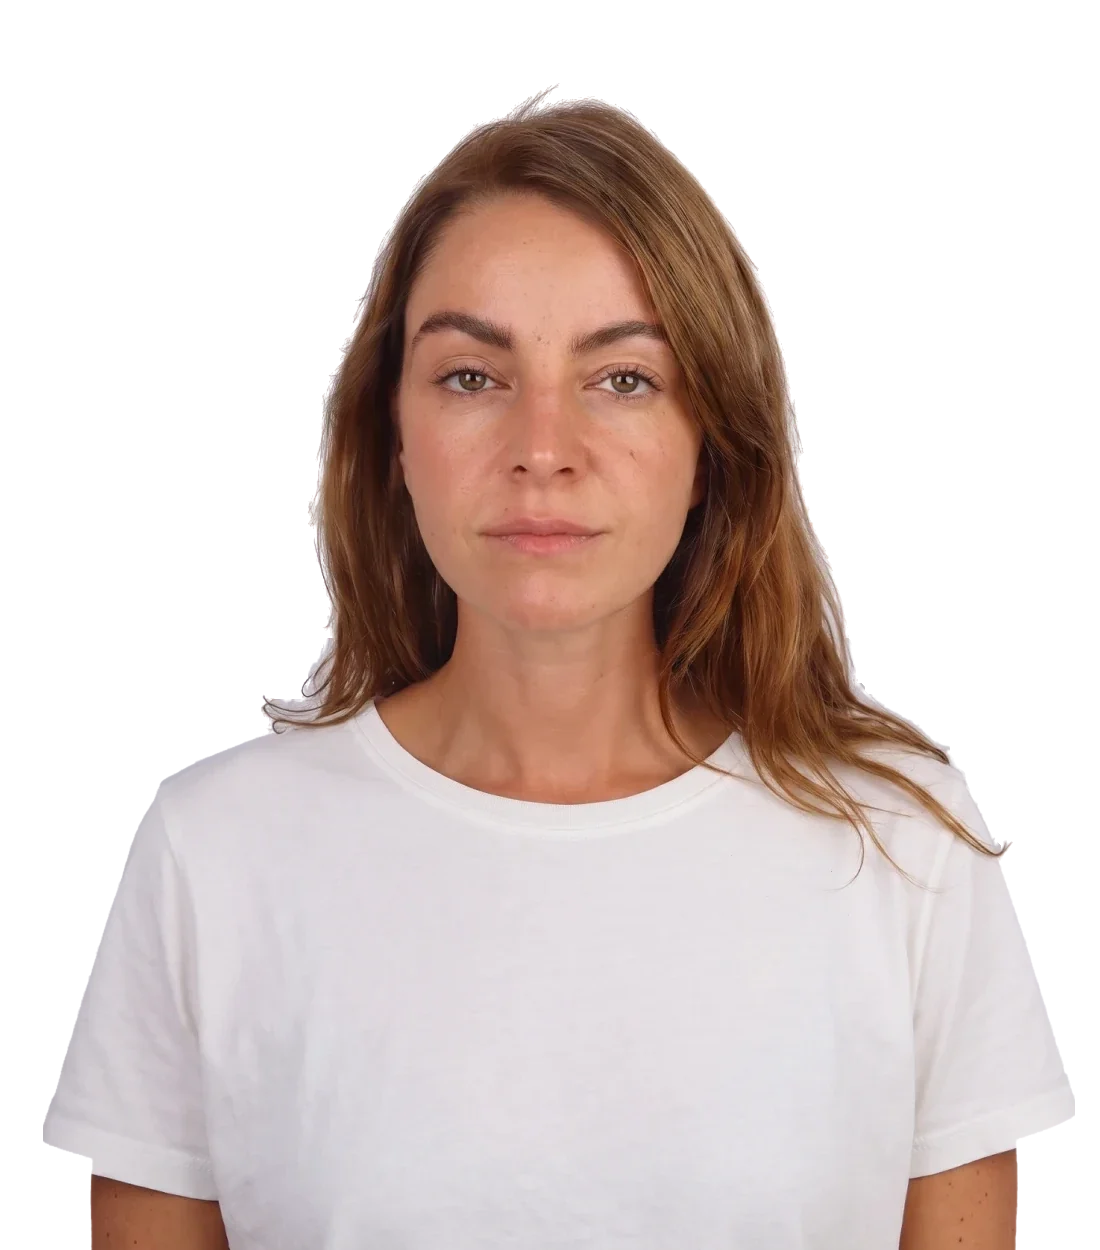
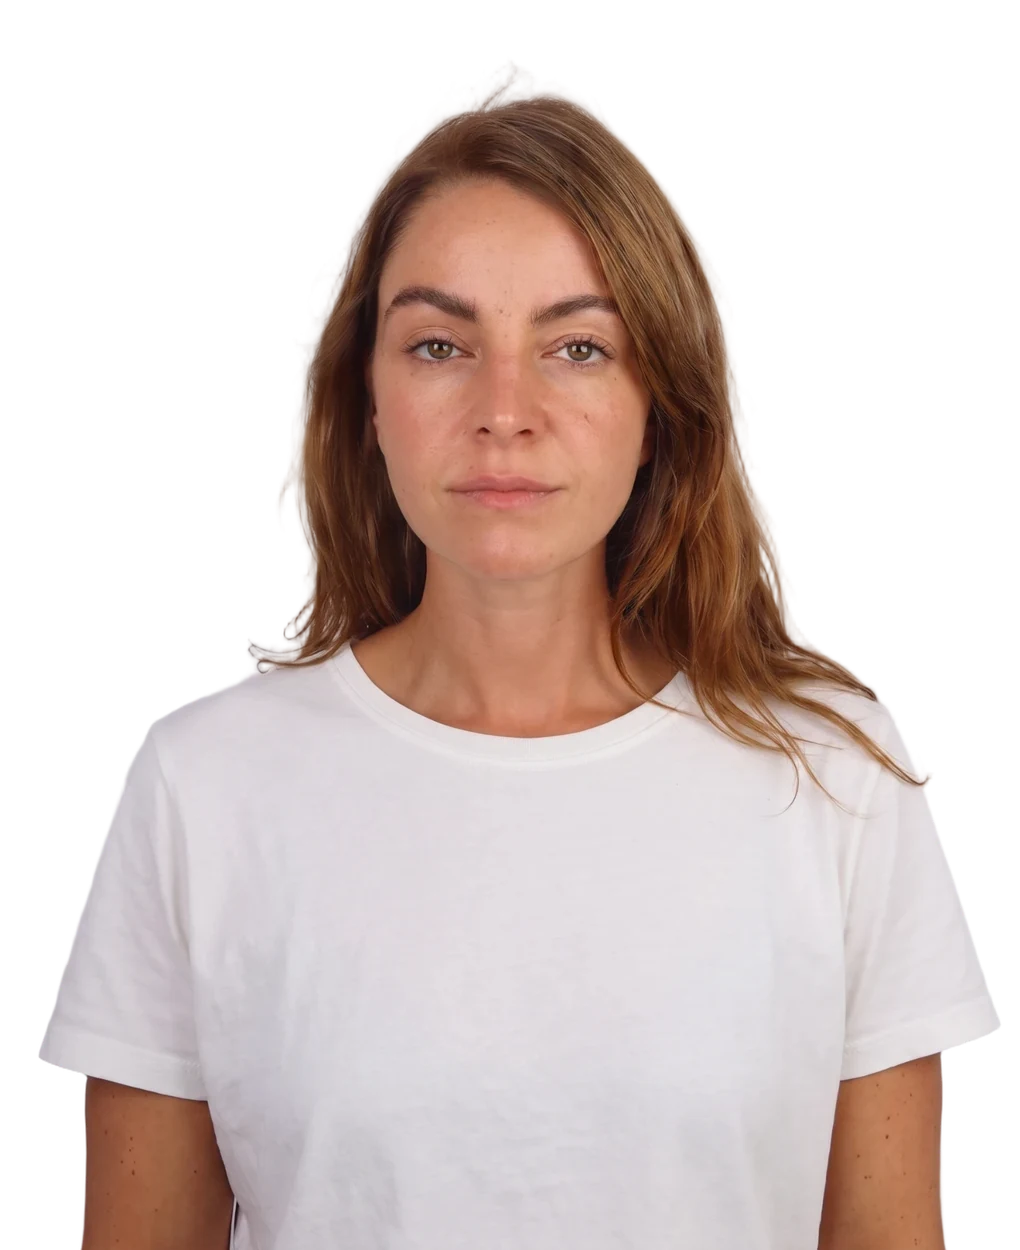
Add files via upload

diff --git a/index.html b/index.html
@@ -30,6 +30,11 @@
   src="https://www.facebook.com/tr?id=1257359486587680&ev=PageView&noscript=1"
   /></noscript>
   <!-- End Meta Pixel Code -->
+  <!-- Vercel Web Analytics -->
+  <script>window.va = window.va || function () { (window.vaq = window.vaq || []).push(arguments); };</script>
+  <script defer src="/_vercel/insights/script.js"></script>
+  <!-- Microsoft Clarity -->
+  <script>(function(c,l,a,r,i,t,y){c[a]=c[a]||function(){(c[a].q=c[a].q||[]).push(arguments)};t=l.createElement(r);t.async=1;t.src="https://www.clarity.ms/tag/"+i;y=l.getElementsByTagName(r)[0];y.parentNode.insertBefore(t,y);})(window,document,"clarity","script","z7qfphpnlb");</script>
 </head>
 <body>
 
@@ -331,7 +336,7 @@
       </article>
     </div>
   </div>
-    <img class="a2-bust" src="images/bust-cutout.webp?v=2" alt="Woman during her color analysis">
+    <img class="a2-bust" src="images/bust-cutout.webp?v=3" alt="Woman during her color analysis">
   </div>
 </section>
 

diff --git a/start.html b/start.html
@@ -81,6 +81,11 @@
   src="https://www.facebook.com/tr?id=1257359486587680&ev=PageView&noscript=1"
   /></noscript>
   <!-- End Meta Pixel Code -->
+  <!-- Vercel Web Analytics -->
+  <script>window.va = window.va || function () { (window.vaq = window.vaq || []).push(arguments); };</script>
+  <script defer src="/_vercel/insights/script.js"></script>
+  <!-- Microsoft Clarity -->
+  <script>(function(c,l,a,r,i,t,y){c[a]=c[a]||function(){(c[a].q=c[a].q||[]).push(arguments)};t=l.createElement(r);t.async=1;t.src="https://www.clarity.ms/tag/"+i;y=l.getElementsByTagName(r)[0];y.parentNode.insertBefore(t,y);})(window,document,"clarity","script","z7qfphpnlb");</script>
 </head>
 <body>
   <a href="index.html" class="back">‹ Back</a>

diff --git a/thank-you.html b/thank-you.html
@@ -55,6 +55,11 @@
   src="https://www.facebook.com/tr?id=1257359486587680&ev=PageView&noscript=1"
   /></noscript>
   <!-- End Meta Pixel Code -->
+  <!-- Vercel Web Analytics -->
+  <script>window.va = window.va || function () { (window.vaq = window.vaq || []).push(arguments); };</script>
+  <script defer src="/_vercel/insights/script.js"></script>
+  <!-- Microsoft Clarity -->
+  <script>(function(c,l,a,r,i,t,y){c[a]=c[a]||function(){(c[a].q=c[a].q||[]).push(arguments)};t=l.createElement(r);t.async=1;t.src="https://www.clarity.ms/tag/"+i;y=l.getElementsByTagName(r)[0];y.parentNode.insertBefore(t,y);})(window,document,"clarity","script","z7qfphpnlb");</script>
 </head>
 <body>
   <main class="card">
